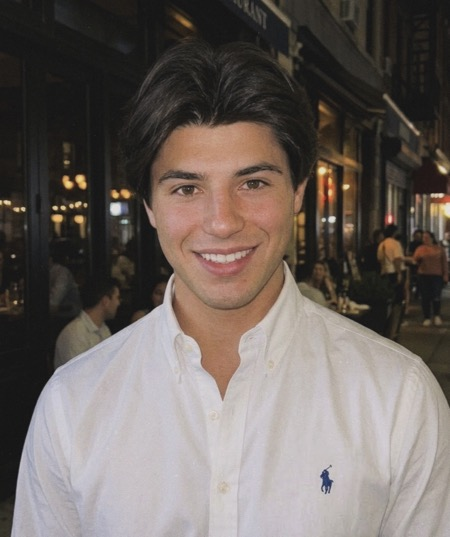
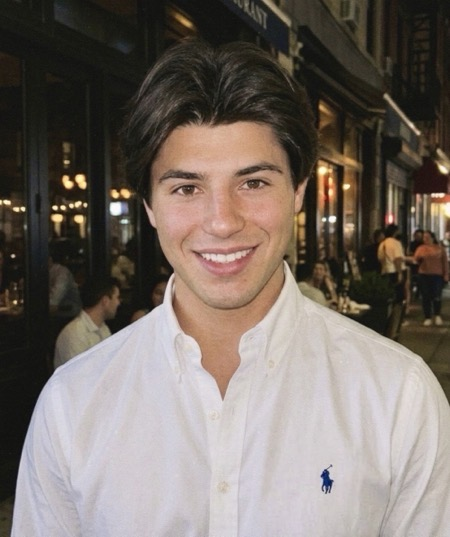
Use unedited version of homepage portrait photo

diff --git a/index.html b/index.html
@@ -71,7 +71,7 @@
 
   <main class="home-main">
     <div class="home-cover">
-      <img class="home-portrait" src="/portrait.jpg?v=9" alt="Chase Roll" width="450" height="537" fetchpriority="high" />
+      <img class="home-portrait" src="/portrait.jpg?v=10" alt="Chase Roll" width="450" height="537" fetchpriority="high" />
       <div class="home-cover-text">
       <div class="home-name-row">
         <h1 class="home-name">Chase Roll</h1>
